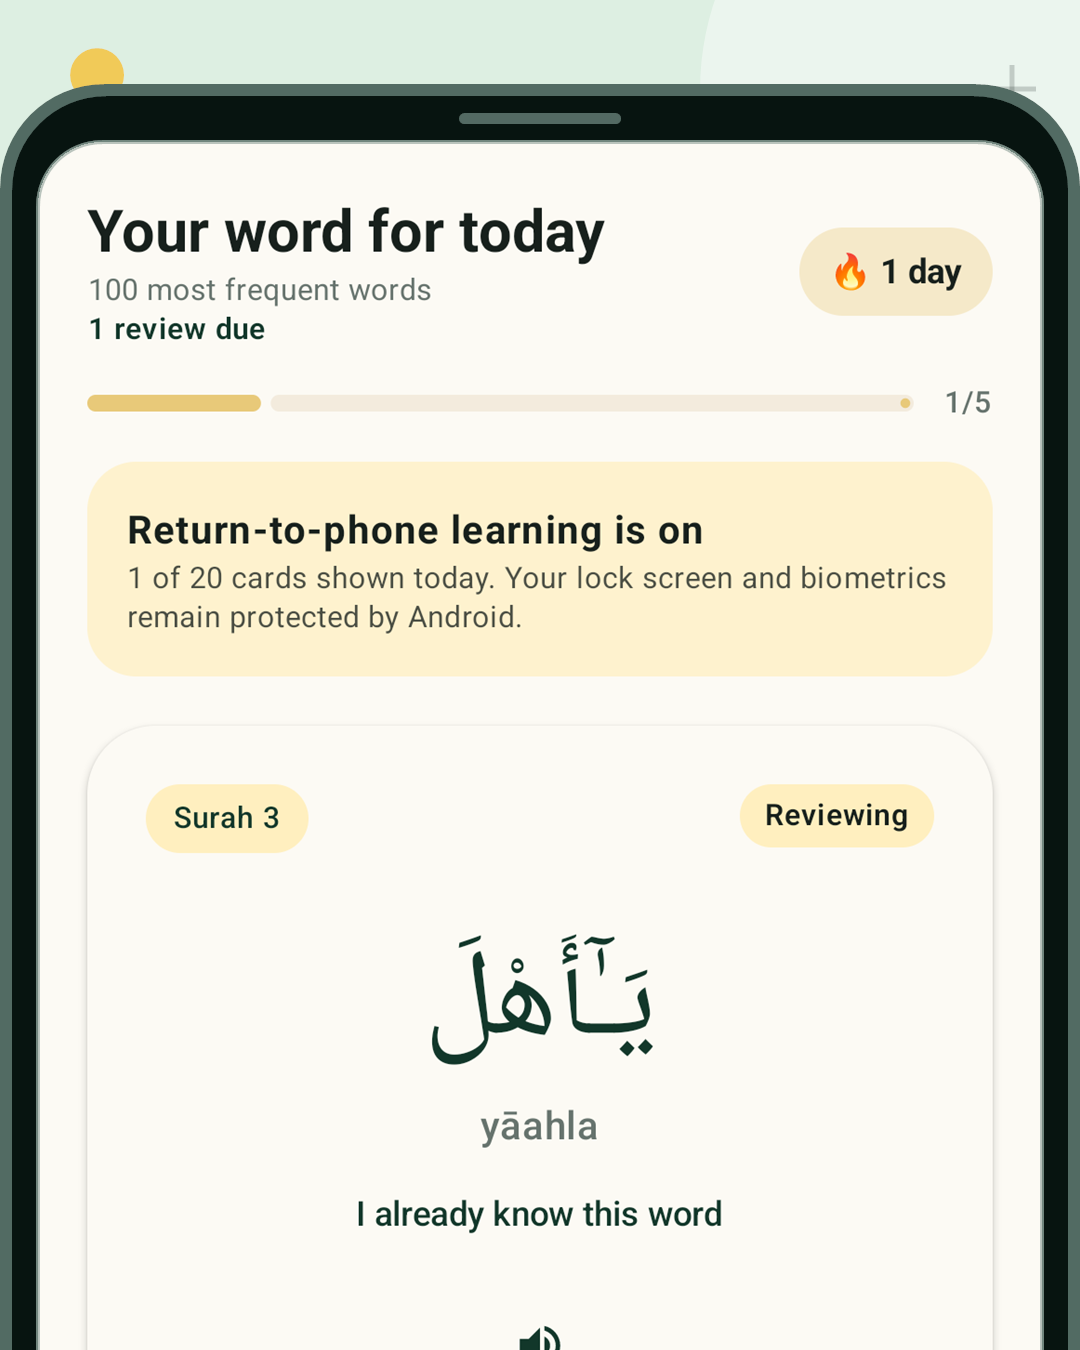
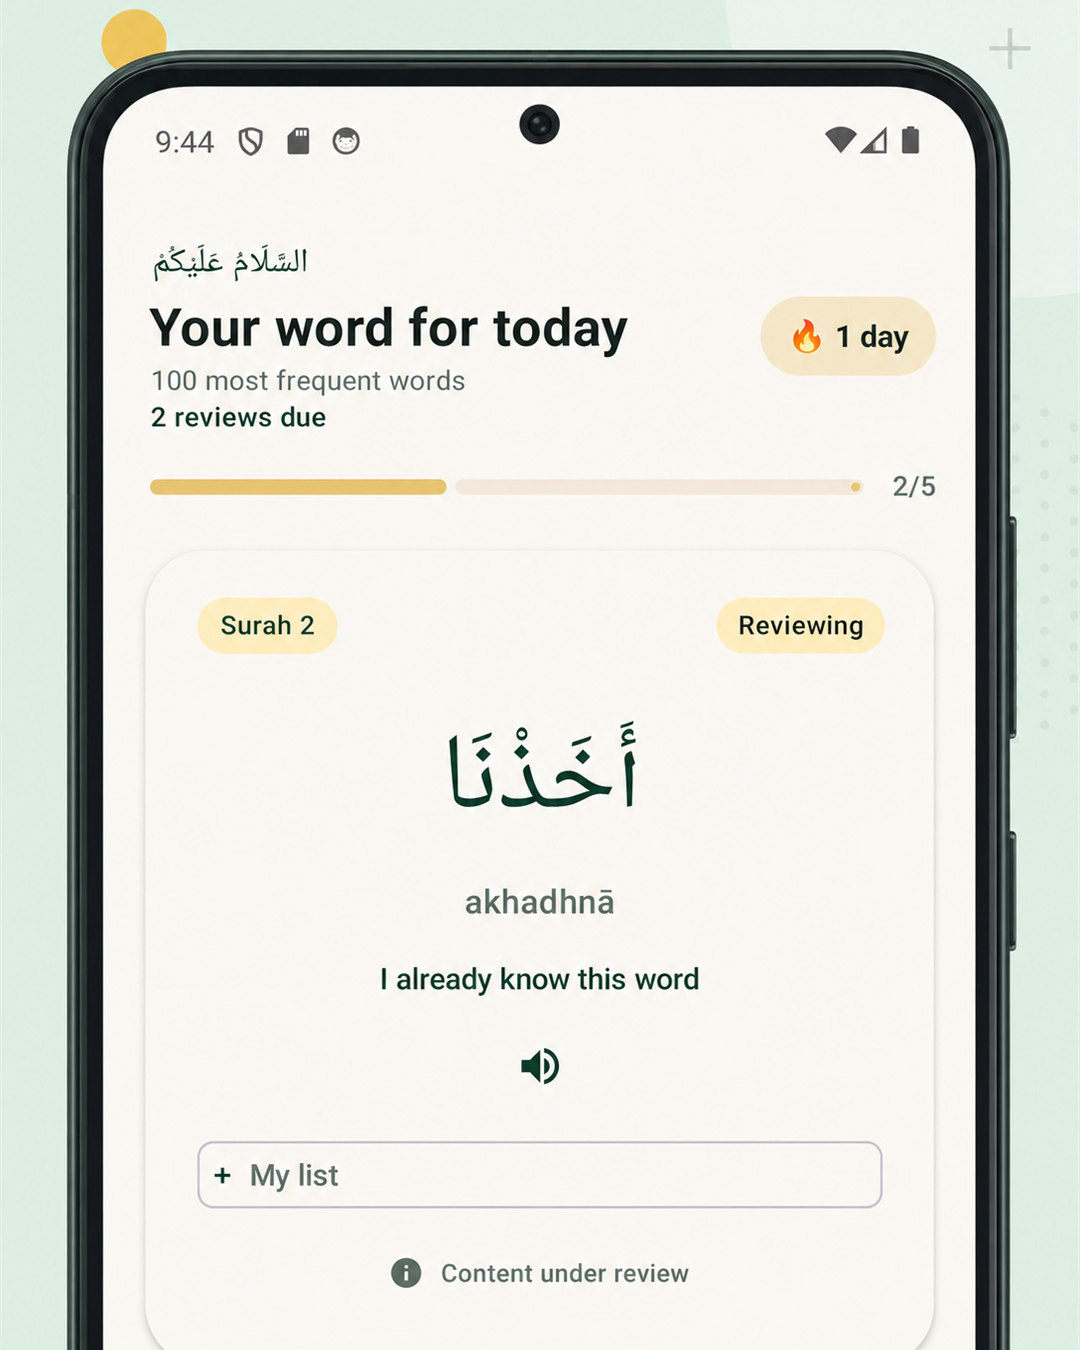
chore(website): refresh promotional artwork
- Update English and Portuguese screenshots and artwork manifest
- Bust artwork cache with the new revision
- Require explicit Git authorization in release instructions

diff --git a/website/src/App.tsx b/website/src/App.tsx
@@ -4,7 +4,7 @@ type Language = 'en' | 'pt';
 type Route = '/' | '/privacy' | '/support';
 type FeatureIconName = 'lockscreen' | 'quiz' | 'widget' | 'audio' | 'quran' | 'progress';
 
-const artworkRevision = '0.30.5-2026-08-25-restored';
+const artworkRevision = '0.30.5-2026-08-29-lockscreen-hd';
 
 const facts = {
   email: 'uthman-al-brazili@proton.me',

diff --git a/AGENTS.md b/AGENTS.md
@@ -70,6 +70,12 @@ tag as part of an ordinary development change.
 Treat work as a release only when the user explicitly asks to release, package,
 version, or publish it. Once the source is stable:
 
+Creating a commit or tag, or pushing commits or tags, always requires the
+user's explicit permission in the current request. A request to prepare,
+package, release, or publish the app does not by itself grant Git permission.
+Without that permission, prepare and verify the complete release state locally,
+then stop before any commit, tag, or push.
+
 1. Confirm the requested version does not already exist in `releases/`; stop
    rather than overwrite an existing artifact.
 2. Increment Android `versionCode` and `versionName` in
@@ -84,8 +90,8 @@ version, or publish it. Once the source is stable:
    Android lint, `verifyLockScreenRegression`, and assembly of the requested
    distributable release artifact. Do not build or copy a separate debug APK
    as a release backup.
-6. Commit the complete intended source state and create annotated tag
-   `v<version>`.
+6. Only with the user's explicit Git permission, commit the complete intended
+   source state and create annotated tag `v<version>`.
 7. Create `releases/kalima-<version>-source.zip` from that tag.
 8. Update `releases/SHA256SUMS.txt` with the source archive checksum and the
    checksum of any distributable artifact retained for the release.

diff --git a/RELEASE_PROCESS.md b/RELEASE_PROCESS.md
@@ -15,6 +15,12 @@ publicar o aplicativo Windows, salvo quando o usuário pedir isso explicitamente
 
 ## Procedimento
 
+Criar commits ou tags e enviar commits ou tags ao remoto sempre exige
+autorização explícita do usuário no pedido atual. Um pedido para preparar,
+empacotar, lançar ou publicar o aplicativo não concede por si só permissão para
+ações Git. Sem essa autorização, preparar e validar tudo localmente e parar
+antes de qualquer commit, tag ou push.
+
 1. Atualizar `versionCode` e `versionName` em `app/build.gradle.kts`.
 2. Adicionar no topo de `CHANGELOG.md` uma seção datada para a nova versão,
    resumindo as funcionalidades e correções visíveis para o usuário.
@@ -26,7 +32,8 @@ publicar o aplicativo Windows, salvo quando o usuário pedir isso explicitamente
    o lint, `verifyLockScreenRegression` e a montagem do artefato distribuível
    solicitado, seguindo o fluxo de assinatura correspondente. Não montar um APK
    de debug separado apenas para backup.
-5. Criar um commit e a tag anotada `vX.Y.Z`.
+5. Somente com autorização Git explícita do usuário, criar um commit e a tag
+   anotada `vX.Y.Z`.
 6. Gerar o código-fonte restaurável a partir da tag:
 
        git archive --format=zip --output=releases/kalima-X.Y.Z-source.zip vX.Y.Z
